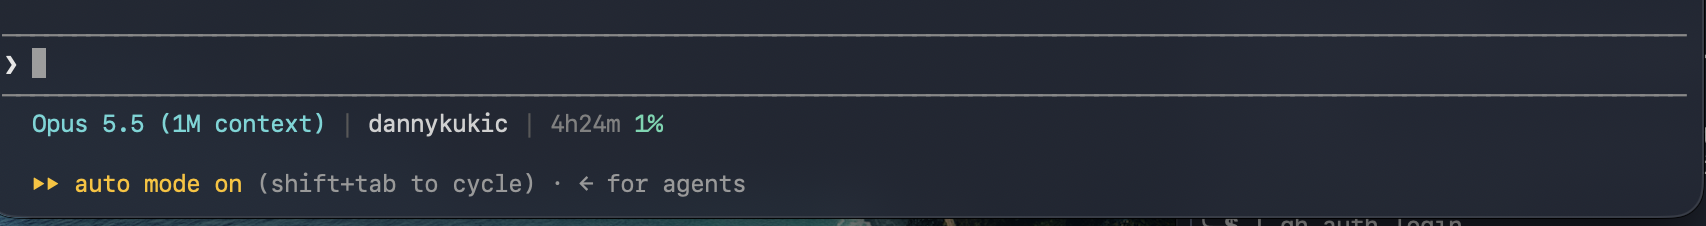
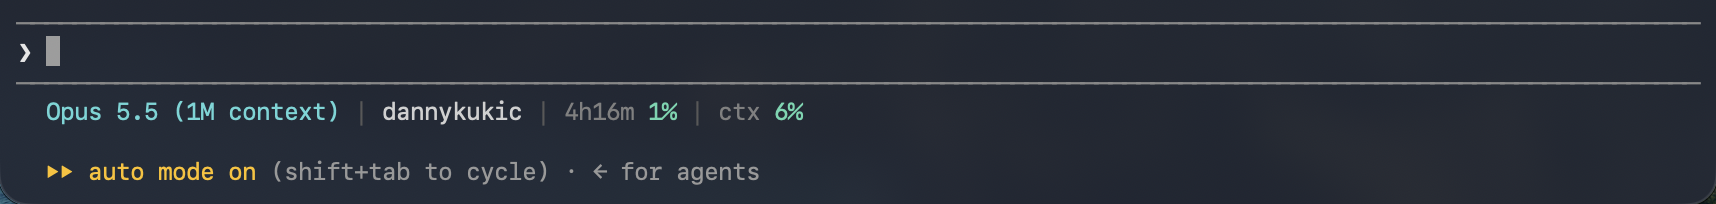
Add macOS bash port, new screenshot, and install docs

diff --git a/README.md b/README.md
@@ -1,22 +1,60 @@
-Claude Code status line (from Danny's Windows machine)
-======================================================
+# Claude Code status line
+
+A compact status line for [Claude Code](https://claude.com/claude-code), for Windows (PowerShell) and macOS/Linux (bash).
 
 ![Status line in Claude Code](screenshot.png)
 
-statusline.ps1 is the working PowerShell status line script. On Windows it is wired
-up in ~/.claude/settings.json as:
+## What it shows
 
-  "statusLine": {
-    "type": "command",
-    "command": "powershell.exe -NoProfile -File \"C:\Users\danny\.claude\statusline.ps1\"",
-    "refreshInterval": 60
-  }
+`model | folder | git branch | 5h rate-limit usage | context usage`
 
-What it shows: model | folder | git branch | 5h rate-limit usage | context usage
-- The 5h label becomes a countdown to the window reset (e.g. "2h14m 37%"), falling back to "5h".
-- Percentages: turquoise < 60%, yellow >= 60%, orange >= 80%, bold red >= 90%.
-- Separators are dark grey " | "; colours are 256-colour codes; NO_COLOR disables colour.
+- The 5h label becomes a countdown to the window reset (e.g. `2h14m 37%`), falling back to `5h`.
+- Percentages: turquoise < 60%, yellow ≥ 60%, orange ≥ 80%, bold red ≥ 90%.
+- Separators are dark grey ` | `; colours are 256-colour codes; `NO_COLOR` disables colour.
+- Segments with no data (e.g. no git repo, no rate-limit info yet) are dropped.
 - Prints a second line containing only U+200B (zero width space) as a spacer row.
 
-To install on macOS: port this to a bash script in ~/.claude/statusline.sh
-(chmod +x) and point statusLine.command at it, keeping refreshInterval 60.
+## Install
+
+### macOS / Linux (bash)
+
+Requires `jq` (preinstalled on recent macOS; otherwise `brew install jq`).
+
+```sh
+curl -fsSL https://raw.githubusercontent.com/DannyKuk/claude-statusline/main/statusline.sh -o ~/.claude/statusline.sh
+chmod +x ~/.claude/statusline.sh
+```
+
+Or copy `statusline.sh` from a clone of this repo. Then add to `~/.claude/settings.json`:
+
+```json
+"statusLine": {
+  "type": "command",
+  "command": "~/.claude/statusline.sh",
+  "refreshInterval": 60
+}
+```
+
+### Windows (PowerShell)
+
+Copy `statusline.ps1` to `%USERPROFILE%\.claude\statusline.ps1`, then add to `%USERPROFILE%\.claude\settings.json`:
+
+```json
+"statusLine": {
+  "type": "command",
+  "command": "powershell.exe -NoProfile -File \"C:\\Users\\<you>\\.claude\\statusline.ps1\"",
+  "refreshInterval": 60
+}
+```
+
+Restart Claude Code if the status line doesn't appear.
+
+## Testing
+
+Pipe sample JSON into the script:
+
+```sh
+echo '{"model":{"display_name":"Opus"},"workspace":{"current_dir":"'"$PWD"'"},"context_window":{"used_percentage":42}}' | ~/.claude/statusline.sh
+```
+
+`STATUSLINE_CLOCK_OVERRIDE=<unix seconds>` pins the clock for countdown testing.
